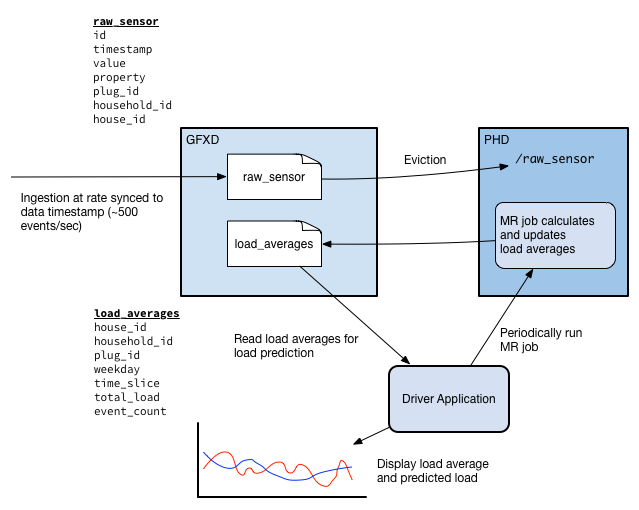
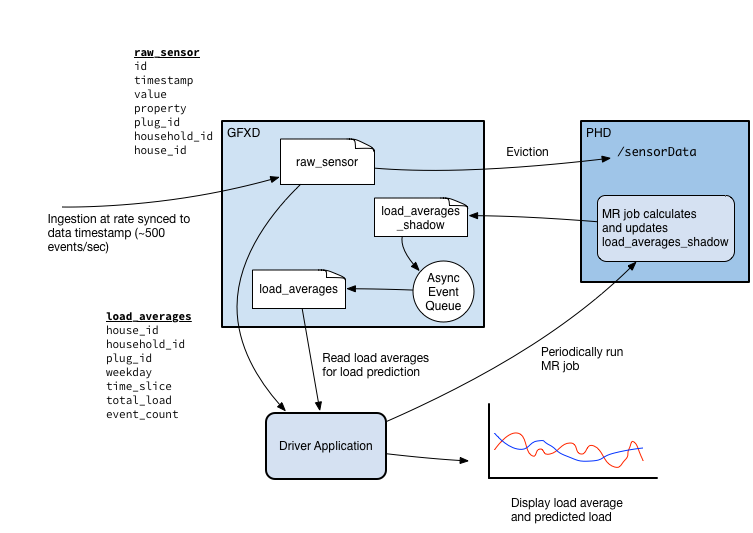
Doc updates

Changed region(s): [[0.0297, 0.0294, 1.0, 1.0], [0.3271, 0.9706, 0.5649, 1.0]]

diff --git a/gfxd-demo-web/src/main/java/com/pivotal/gfxd/demo/entity/EntityAggregate.java b/gfxd-demo-web/src/main/java/com/pivotal/gfxd/demo/entity/EntityAggregate.java
@@ -1,0 +1,22 @@
+package com.pivotal.gfxd.demo.entity;
+
+/**
+* @author Jens Deppe
+*/
+public class EntityAggregate {
+  private String entityId;
+  private float value;
+
+  public EntityAggregate(String entityId, float value) {
+    this.entityId = entityId;
+    this.value = value;
+  }
+
+  public String getEntityId() {
+    return entityId;
+  }
+
+  public float getValue() {
+    return value;
+  }
+}

diff --git a/README.md b/README.md
@@ -4,9 +4,9 @@ GemfireXD Sensor Demo
 Background
 ----------
 
-This demo is based on the [DEBS 2014 Challenge]. It uses the data set presented there and strives to achieve the objectives of the challenge.
+This demo is based on the [DEBS 2014 Challenge]. It uses the data set presented there and strives to achieve some of the objectives of the challenge.
 
-The demo is intended to illustrate how time-series data may be ingested into GemFireXD, evicted to Hadoop/HDFS, porcessed there, and then have the results be fed back into GemFireXD.
+The demo is intended to illustrate how time-series data may be ingested into GemFireXD, evicted to Hadoop/HDFS, processed there, and then have the results be fed back into GemFireXD.
 
 Data Flow
 ---------
@@ -17,12 +17,18 @@ The following diagram illustrates the basic data flow:
 
 ![](images/gfxd-demo-architecture.png)
 
+Data is ingested from an external source into a table which is backed by a HDFS write-only store. As data is written, it is automatically also written out to HDFS.
+
+A MapReduce job performs computation on the HDFS data in order to calculate load averages. The results are fed back into GemFireXD using a table which has an Async Event listener associated with it. The listener is then responsible for updating the load averages which are eventually used to compute prediction values.
+
+Although the MapReduce job could directly update the load averages, the Async Event listener component is simply reused so as not to duplicate functionality. (The Async Event listener can be used to provide the same functionality as the MapReduce job in the event that Hadoop is not available).
+
 ----
 
 Schema
 ------
 
-Only two tables are used by the demo. One is used to hold incoming sensor data (`raw_sensor`) and the other is used to hold load average data used for load prediction (`load_averages`). Both tables are partitioned by `house_id` and are colocated.
+Only two primary tables are used by the demo. One is used to hold incoming sensor data (`raw_sensor`) and the other is used to hold load average data used for load prediction (`load_averages`). Both tables are partitioned by `house_id` and are colocated.
 
     -- raw_sensor table
 
@@ -48,6 +54,13 @@ Only two tables are used by the demo. One is used to hold incoming sensor data (
 
 Although sensor data is recorded per second, the smallest aggregation is 5 minutes, thus each row in `load_averages` represents the average load for a given 5-minute slice, per weekday, per unique plug. Slices are numbered 0-287.
 
+As data is constantly streaming in, the `raw_sensor` table can only hold a certain amount of in-memory or operational data. In order that the data does not overflow memory, old data is evicted with an eviction clause:
+
+    eviction by criteria (expired(timestamp, 600) = 1)
+    eviction frequency 600 seconds
+
+Here a function called `expired` is being called every 10 minutes in order to evict data which is older than 10 minutes.
+
 The schema also defines the HDFS store used by the `raw_sensor` table to stream data to Hadoop, which will later be used by the MapReduce job. 
 
     CREATE HDFSSTORE sensorStore
@@ -55,6 +68,8 @@ The schema also defines the HDFS store used by the `raw_sensor` table to stream 
       HomeDir '/sensorStore'
       BatchSize 10
       BatchTimeInterval 2000
+
+The `load_averages_shadow` table is used as the destination for the MapReduce job output. The inserted rows are processed by the attached Async Event Listener and used to update the `load_averages` table.
 
 Data
 ----
@@ -76,7 +91,7 @@ The repo consists of 4 sub-projects:
 * `gfxd-demo-loader` - The loader which used to stream events into the system.
 * `gfxd-demo-mapreduce` - The MapReduce component which produces load prediction data.
 * `gfxd-demo-web` - The web UI component.
-* `gfxd-demo-aeq-listener` - An optional AsyncEventQueue component which serves the same purpose as the MapReduce part. Use this if you don't have Hadoop.
+* `gfxd-demo-aeq-listener` - An AsyncEventQueue component which can serve the same purpose as the MapReduce part. Use this if you don't have Hadoop.
 
 Building
 --------
@@ -88,7 +103,7 @@ You will need a release of GemFireXD - specifically the gemfirexd.jar and gemfir
 Create or edit `gradle.properties` in the source root directory defining the GFXD_HOME property which should point to your GemFireXD product directory. For example
 
     # gradle.properties file
-    GFXD_HOME = /opt/gemfirexd-1.0
+    GFXD_HOME = /usr/lib/gphd/gfxd
 
 Then simply build with:
 
@@ -107,27 +122,30 @@ Before starting, make sure that the provided data is uncompressed.
 
 The demo is intended to be run using the Pivotal HD distribution. An easy way to do this is by using the [PHD VM]. 
 
-Ensure that the namenode URL is set correctly in `scripts/schema-hadoop.sql`.
+Ensure that the namenode URL is set correctly in `scripts/schema-hadoop.sql`. For the PHD VM, this would be `hdfs://localhost:8020`
 
 ### Setup (for Hadoop)
 
-The `gfxd-demo-aeq-listener-1.0.jar` file needs to be available on the GemFireXD classpath. When using the PHD VM, edit the `~gpadmin/Desktop/start_gfxd.sh` script and adjust it as follows:
+The `gfxd-demo-aeq-listener-1.0.jar` file needs to be available on the GemFireXD classpath. When using the PHD VM, edit the `~/Desktop/start_gfxd.sh` script and adjust it as follows:
 
-    # Look for the function 'startServers' and modify the sqlf/gfxd server start, adding the -classpath option
-    sqlf server start -dir=$BASEDIR/server${i} -locators=localhost[10101] -client-port=$CLIENTPORT \
+    # Look for the function 'startServers' and modify the gfxd server start, adding the -classpath and -server-groups options
+    # Note that for some versions, this command may be sqlf and not gfxd. These commands are interchangeable.
+    gfxd server start -dir=$BASEDIR/server${i} -locators=localhost[10101] -client-port=$CLIENTPORT \
+        -server-groups=group1 \
         -classpath=/home/gpadmin/gfxd-demo/gfxd-demo-aeq-listener/build/libs/gfxd-demo-aeq-listener-1.0.jar
 
 Restart the GemFireXD servers.
+
+Also ensure that YARN is running. On the PHD VM, YARN can be explicitly started with:
+
+    icm_client start -l pivhd -s yarn
 
 The setup phase consists of creating the schema and populating the load_averages table. This step is achieved with:
 
     ./gradlew loadAverages
 
 This task performs the following actions:
-* Stop the current GemFireXD server
-* Clean up the server's directory - `server1/`
-* Start a GemFireXD server
-* Create the necessary tables
+* Create the necessary tables, HDFS store definitions and Async Event listeners
 * Import data into the `load_averages` table
 
 ### Ingest
@@ -150,13 +168,7 @@ Initially, 5 minutes worth of sensor data will be consumed as quickly as possibl
 
 ### Mapreduce 
 
-Once ingestion has been running for a while, the operational data will start to be evicted to HDFS. In order to run the provided MapReduce job, ensure that you have your CLASSPATH set correctly:
-
-    export CLASSPATH=$CLASSPATH:gfxd-demo-mapreduce/build/libs/gfxd-demo-mapreduce-1.0.jar
-
-Ensure that you have HADOOP_HOME and other hadoop environment variables set.
-
-Call the MapReduce job:
+Running MapReduce is not automatically scheduled, but can be run manually by the user. The UI provides a _Run MapReduce_ button which will perform the run. Output will appear on the console of the web server. Similarly, the job can also be initiated from the command line with:
 
     yarn jar $PWD/gfxd-demo-mapreduce/build/libs/gfxd-demo-mapreduce-1.0.jar
 
@@ -170,33 +182,29 @@ If desired, the job can also be run with Gradle:
 
     ./gradlew gfxd-demo-mapreduce:run -Pargs=$PWD/gfxd-demo-mapreduce/build/libs/gfxd-demo-mapreduce-1.0.jar
 
+
 Running without Hadoop
 ----------------------
 
-### Setup with AsyncEventQueue Listener
+If you do not have a PHD VM environment available, you can still run the demo and simulate the MapReduce functionality by using the Async Event listener component to perform the same functionality.
 
-If you do not have a Hadoop environment available, you may simulate the MapReduce functionality by using an `AsyncEventListener` component which performs the same functionality. To use this, GemFireXD needs to have the `gfxd-demo-aeq-listener-1.0.jar` file available on its classpath and needs to be started with a `server-group` of `group1`. When using the PHD VM, edit the `~gpadmin/Desktop/start_gfxd.sh` script and adjust it as follows:
+In this scenario, the architecture would look as follows:
 
-    # Look for the function 'startServers' and modify the sqlf/gfxd server start, adding the -classpath and -server-groups options
-    sqlf server start -dir=$BASEDIR/server${i} -locators=localhost[10101] -client-port=$CLIENTPORT \
-        -server-groups=group1 \
-        -classpath=/home/gpadmin/gfxd-demo/gfxd-demo-aeq-listener/build/libs/gfxd-demo-aeq-listener-1.0.jar
+![](images/gfxd-demo-architecture-no-hadoop.png)
 
-Restart the GemFireXD servers.
-
-The Gradle build script is able to start a single server to run the demo:
+If you are not using the PHD VM, you can start up a single GemFireXD server with:
 
     ./gradlew -Pflavor=aeq cycle
 
-If using the PHD VM, you may load the schema with:
+This will use a different DDL script (`scripts/schema-aeq.sql`) to set up the necessary tables.
+
+If you are using the PHD VM and already have GemFireXD servers running, you can load the schema with:
 
     ./gradlew -Pflavor=aeq loadAverages
-
-This option will activate an AsyncEventListener which performs the load aggregation function.
 
 At this point, the ingestion can be run as described above.
 
 
 [DEBS 2014 Challenge]:http://www.cse.iitb.ac.in/debs2014/?page_id=42
-[PHD VM]:http://gopivotal.com/products/pivotal-hd#4
+[PHD VM]:https://network.gopivotal.com/products/pivotal-hd
 
